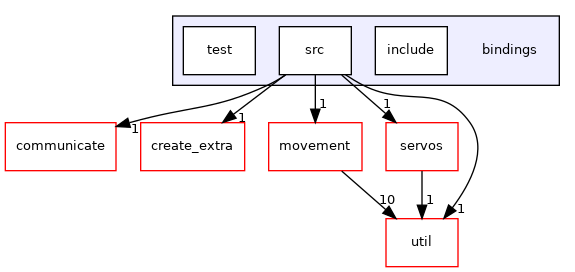
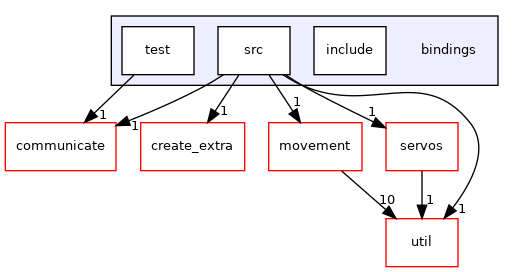
deploy: 4a1c8bddac152c7746b040a3994a704993f3c974

diff --git a/dir_000003_000004.html b/dir_000003_000004.html
@@ -5,7 +5,7 @@
 <meta http-equiv="X-UA-Compatible" content="IE=9"/>
 <meta name="generator" content="Doxygen 1.9.1"/>
 <meta name="viewport" content="width=device-width, initial-scale=1"/>
-<title>ihs_boost: bindings Directory Reference</title>
+<title>ihs_boost: bindings/test -&gt; communicate Relation</title>
 <link href="tabs.css" rel="stylesheet" type="text/css"/>
 <script type="text/javascript" src="jquery.js"></script>
 <script type="text/javascript" src="dynsections.js"></script>
@@ -62,43 +62,11 @@ $(function() {
 
 <div id="nav-path" class="navpath">
   <ul>
-<li class="navelem"><a class="el" href="dir_00240dc4a1a4845ae58be68fbad02d02.html">bindings</a></li>  </ul>
+<li class="navelem"><a class="el" href="dir_00240dc4a1a4845ae58be68fbad02d02.html">bindings</a></li><li class="navelem"><a class="el" href="dir_ebca184f7edf223dc8d1d7e313104c7e.html">test</a></li>  </ul>
 </div>
 </div><!-- top -->
-<div class="header">
-  <div class="headertitle">
-<div class="title">bindings Directory Reference</div>  </div>
-</div><!--header-->
 <div class="contents">
-<div class="dynheader">
-Directory dependency graph for bindings:</div>
-<div class="dyncontent">
-<div class="center"><img src="dir_00240dc4a1a4845ae58be68fbad02d02_dep.png" border="0" usemap="#adir__00240dc4a1a4845ae58be68fbad02d02__dep" alt="bindings"/></div>
-<map name="adir__00240dc4a1a4845ae58be68fbad02d02__dep" id="adir__00240dc4a1a4845ae58be68fbad02d02__dep">
-<area shape="rect" href="dir_757d9e6bdf70c1687ca892949b1b42fc.html" title="include" alt="" coords="314,27,386,75"/>
-<area shape="rect" href="dir_2efb20c05d61bafb84becaf810be1c07.html" title="src" alt="" coords="218,27,290,75"/>
-<area shape="rect" href="dir_055323c8a4f7ce695579edbe749d39a3.html" title="communicate" alt="" coords="5,123,116,171"/>
-<area shape="rect" href="dir_000002_000004.html" title="1" alt="" coords="131,120,141,134"/>
-<area shape="rect" href="dir_8e6226148e24e7b785c70e4b3eaceef7.html" title="create_extra" alt="" coords="141,123,245,171"/>
-<area shape="rect" href="dir_000002_000012.html" title="1" alt="" coords="220,105,229,119"/>
-<area shape="rect" href="dir_22d335ae50cd3a2e443747464697f17c.html" title="movement" alt="" coords="269,123,362,171"/>
-<area shape="rect" href="dir_000002_000015.html" title="1" alt="" coords="293,95,302,110"/>
-<area shape="rect" href="dir_8894e99936ee24343e529d171463c02a.html" title="servos" alt="" coords="386,123,458,171"/>
-<area shape="rect" href="dir_000002_000018.html" title="1" alt="" coords="368,105,378,120"/>
-<area shape="rect" href="dir_23ec12649285f9fabf3a6b7380226c28.html" title="util" alt="" coords="386,219,458,267"/>
-<area shape="rect" href="dir_000002_000024.html" title="1" alt="" coords="458,202,467,217"/>
-<area shape="rect" href="dir_ebca184f7edf223dc8d1d7e313104c7e.html" title="test" alt="" coords="122,27,194,75"/>
-<area shape="rect" href="dir_000003_000004.html" title="1" alt="" coords="99,109,108,123"/>
-<area shape="rect" href="dir_000015_000024.html" title="10" alt="" coords="379,193,397,208"/>
-<area shape="rect" href="dir_000018_000024.html" title="1" alt="" coords="426,193,435,208"/>
-<area shape="rect" href="dir_00240dc4a1a4845ae58be68fbad02d02.html" alt="" coords="111,16,498,85"/>
-</map>
-</div>
-<table class="memberdecls">
-<tr class="heading"><td colspan="2"><h2 class="groupheader"><a name="subdirs"></a>
-Directories</h2></td></tr>
-</table>
-</div><!-- contents -->
+<h3>test &rarr; communicate Relation</h3><table class="dirtab"><tr class="dirtab"><th class="dirtab">File in bindings/test</th><th class="dirtab">Includes file in communicate</th></tr><tr class="dirtab"><td class="dirtab"><b>back_and_forth_test.cpp</b></td><td class="dirtab"><a class="el" href="dir_06e824f5553d294831d66d9c27ed5ebb.html">include</a>&#160;/&#160;<a class="el" href="communicate_8hpp.html">communicate.hpp</a></td></tr></table></div><!-- contents -->
 <!-- start footer part -->
 <hr class="footer"/><address class="footer"><small>
 Generated by&#160;<a href="https://www.doxygen.org/index.html"><img class="footer" src="doxygen.svg" width="104" height="31" alt="doxygen"/></a> 1.9.1

diff --git a/dir_000007_000005.html b/dir_000007_000005.html
@@ -5,7 +5,7 @@
 <meta http-equiv="X-UA-Compatible" content="IE=9"/>
 <meta name="generator" content="Doxygen 1.9.1"/>
 <meta name="viewport" content="width=device-width, initial-scale=1"/>
-<title>ihs_boost: bindings Directory Reference</title>
+<title>ihs_boost: communicate/test -&gt; include Relation</title>
 <link href="tabs.css" rel="stylesheet" type="text/css"/>
 <script type="text/javascript" src="jquery.js"></script>
 <script type="text/javascript" src="dynsections.js"></script>
@@ -62,43 +62,11 @@ $(function() {
 
 <div id="nav-path" class="navpath">
   <ul>
-<li class="navelem"><a class="el" href="dir_00240dc4a1a4845ae58be68fbad02d02.html">bindings</a></li>  </ul>
+<li class="navelem"><a class="el" href="dir_055323c8a4f7ce695579edbe749d39a3.html">communicate</a></li><li class="navelem"><a class="el" href="dir_1999e99b335e4a0a5a8e4c4687d850a5.html">test</a></li>  </ul>
 </div>
 </div><!-- top -->
-<div class="header">
-  <div class="headertitle">
-<div class="title">bindings Directory Reference</div>  </div>
-</div><!--header-->
 <div class="contents">
-<div class="dynheader">
-Directory dependency graph for bindings:</div>
-<div class="dyncontent">
-<div class="center"><img src="dir_00240dc4a1a4845ae58be68fbad02d02_dep.png" border="0" usemap="#adir__00240dc4a1a4845ae58be68fbad02d02__dep" alt="bindings"/></div>
-<map name="adir__00240dc4a1a4845ae58be68fbad02d02__dep" id="adir__00240dc4a1a4845ae58be68fbad02d02__dep">
-<area shape="rect" href="dir_757d9e6bdf70c1687ca892949b1b42fc.html" title="include" alt="" coords="314,27,386,75"/>
-<area shape="rect" href="dir_2efb20c05d61bafb84becaf810be1c07.html" title="src" alt="" coords="218,27,290,75"/>
-<area shape="rect" href="dir_055323c8a4f7ce695579edbe749d39a3.html" title="communicate" alt="" coords="5,123,116,171"/>
-<area shape="rect" href="dir_000002_000004.html" title="1" alt="" coords="131,120,141,134"/>
-<area shape="rect" href="dir_8e6226148e24e7b785c70e4b3eaceef7.html" title="create_extra" alt="" coords="141,123,245,171"/>
-<area shape="rect" href="dir_000002_000012.html" title="1" alt="" coords="220,105,229,119"/>
-<area shape="rect" href="dir_22d335ae50cd3a2e443747464697f17c.html" title="movement" alt="" coords="269,123,362,171"/>
-<area shape="rect" href="dir_000002_000015.html" title="1" alt="" coords="293,95,302,110"/>
-<area shape="rect" href="dir_8894e99936ee24343e529d171463c02a.html" title="servos" alt="" coords="386,123,458,171"/>
-<area shape="rect" href="dir_000002_000018.html" title="1" alt="" coords="368,105,378,120"/>
-<area shape="rect" href="dir_23ec12649285f9fabf3a6b7380226c28.html" title="util" alt="" coords="386,219,458,267"/>
-<area shape="rect" href="dir_000002_000024.html" title="1" alt="" coords="458,202,467,217"/>
-<area shape="rect" href="dir_ebca184f7edf223dc8d1d7e313104c7e.html" title="test" alt="" coords="122,27,194,75"/>
-<area shape="rect" href="dir_000003_000004.html" title="1" alt="" coords="99,109,108,123"/>
-<area shape="rect" href="dir_000015_000024.html" title="10" alt="" coords="379,193,397,208"/>
-<area shape="rect" href="dir_000018_000024.html" title="1" alt="" coords="426,193,435,208"/>
-<area shape="rect" href="dir_00240dc4a1a4845ae58be68fbad02d02.html" alt="" coords="111,16,498,85"/>
-</map>
-</div>
-<table class="memberdecls">
-<tr class="heading"><td colspan="2"><h2 class="groupheader"><a name="subdirs"></a>
-Directories</h2></td></tr>
-</table>
-</div><!-- contents -->
+<h3>test &rarr; include Relation</h3><table class="dirtab"><tr class="dirtab"><th class="dirtab">File in communicate/test</th><th class="dirtab">Includes file in communicate/include</th></tr><tr class="dirtab"><td class="dirtab"><b>communicate_test.cpp</b></td><td class="dirtab"><a class="el" href="communicate_8hpp.html">communicate.hpp</a></td></tr></table></div><!-- contents -->
 <!-- start footer part -->
 <hr class="footer"/><address class="footer"><small>
 Generated by&#160;<a href="https://www.doxygen.org/index.html"><img class="footer" src="doxygen.svg" width="104" height="31" alt="doxygen"/></a> 1.9.1

diff --git a/dir_000011_000009.html b/dir_000011_000009.html
@@ -5,7 +5,7 @@
 <meta http-equiv="X-UA-Compatible" content="IE=9"/>
 <meta name="generator" content="Doxygen 1.9.1"/>
 <meta name="viewport" content="width=device-width, initial-scale=1"/>
-<title>ihs_boost: bindings Directory Reference</title>
+<title>ihs_boost: controllers/test -&gt; include Relation</title>
 <link href="tabs.css" rel="stylesheet" type="text/css"/>
 <script type="text/javascript" src="jquery.js"></script>
 <script type="text/javascript" src="dynsections.js"></script>
@@ -62,43 +62,11 @@ $(function() {
 
 <div id="nav-path" class="navpath">
   <ul>
-<li class="navelem"><a class="el" href="dir_00240dc4a1a4845ae58be68fbad02d02.html">bindings</a></li>  </ul>
+<li class="navelem"><a class="el" href="dir_87b6ed4386158a4d6cd0ecd5fb5bd5c2.html">controllers</a></li><li class="navelem"><a class="el" href="dir_32c4a7e683c70743e793c3167fda4548.html">test</a></li>  </ul>
 </div>
 </div><!-- top -->
-<div class="header">
-  <div class="headertitle">
-<div class="title">bindings Directory Reference</div>  </div>
-</div><!--header-->
 <div class="contents">
-<div class="dynheader">
-Directory dependency graph for bindings:</div>
-<div class="dyncontent">
-<div class="center"><img src="dir_00240dc4a1a4845ae58be68fbad02d02_dep.png" border="0" usemap="#adir__00240dc4a1a4845ae58be68fbad02d02__dep" alt="bindings"/></div>
-<map name="adir__00240dc4a1a4845ae58be68fbad02d02__dep" id="adir__00240dc4a1a4845ae58be68fbad02d02__dep">
-<area shape="rect" href="dir_757d9e6bdf70c1687ca892949b1b42fc.html" title="include" alt="" coords="314,27,386,75"/>
-<area shape="rect" href="dir_2efb20c05d61bafb84becaf810be1c07.html" title="src" alt="" coords="218,27,290,75"/>
-<area shape="rect" href="dir_055323c8a4f7ce695579edbe749d39a3.html" title="communicate" alt="" coords="5,123,116,171"/>
-<area shape="rect" href="dir_000002_000004.html" title="1" alt="" coords="131,120,141,134"/>
-<area shape="rect" href="dir_8e6226148e24e7b785c70e4b3eaceef7.html" title="create_extra" alt="" coords="141,123,245,171"/>
-<area shape="rect" href="dir_000002_000012.html" title="1" alt="" coords="220,105,229,119"/>
-<area shape="rect" href="dir_22d335ae50cd3a2e443747464697f17c.html" title="movement" alt="" coords="269,123,362,171"/>
-<area shape="rect" href="dir_000002_000015.html" title="1" alt="" coords="293,95,302,110"/>
-<area shape="rect" href="dir_8894e99936ee24343e529d171463c02a.html" title="servos" alt="" coords="386,123,458,171"/>
-<area shape="rect" href="dir_000002_000018.html" title="1" alt="" coords="368,105,378,120"/>
-<area shape="rect" href="dir_23ec12649285f9fabf3a6b7380226c28.html" title="util" alt="" coords="386,219,458,267"/>
-<area shape="rect" href="dir_000002_000024.html" title="1" alt="" coords="458,202,467,217"/>
-<area shape="rect" href="dir_ebca184f7edf223dc8d1d7e313104c7e.html" title="test" alt="" coords="122,27,194,75"/>
-<area shape="rect" href="dir_000003_000004.html" title="1" alt="" coords="99,109,108,123"/>
-<area shape="rect" href="dir_000015_000024.html" title="10" alt="" coords="379,193,397,208"/>
-<area shape="rect" href="dir_000018_000024.html" title="1" alt="" coords="426,193,435,208"/>
-<area shape="rect" href="dir_00240dc4a1a4845ae58be68fbad02d02.html" alt="" coords="111,16,498,85"/>
-</map>
-</div>
-<table class="memberdecls">
-<tr class="heading"><td colspan="2"><h2 class="groupheader"><a name="subdirs"></a>
-Directories</h2></td></tr>
-</table>
-</div><!-- contents -->
+<h3>test &rarr; include Relation</h3><table class="dirtab"><tr class="dirtab"><th class="dirtab">File in controllers/test</th><th class="dirtab">Includes file in controllers/include</th></tr><tr class="dirtab"><td class="dirtab"><b>accelerator_test.cpp</b></td><td class="dirtab"><a class="el" href="controllers_8hpp.html">controllers.hpp</a></td></tr></table></div><!-- contents -->
 <!-- start footer part -->
 <hr class="footer"/><address class="footer"><small>
 Generated by&#160;<a href="https://www.doxygen.org/index.html"><img class="footer" src="doxygen.svg" width="104" height="31" alt="doxygen"/></a> 1.9.1

diff --git a/dir_055323c8a4f7ce695579edbe749d39a3.html b/dir_055323c8a4f7ce695579edbe749d39a3.html
@@ -75,10 +75,11 @@ Directory dependency graph for communicate:</div>
 <div class="dyncontent">
 <div class="center"><img src="dir_055323c8a4f7ce695579edbe749d39a3_dep.png" border="0" usemap="#adir__055323c8a4f7ce695579edbe749d39a3__dep" alt="communicate"/></div>
 <map name="adir__055323c8a4f7ce695579edbe749d39a3__dep" id="adir__055323c8a4f7ce695579edbe749d39a3__dep">
-<area shape="rect" href="dir_06e824f5553d294831d66d9c27ed5ebb.html" title="include" alt="" coords="123,123,195,171"/>
+<area shape="rect" href="dir_06e824f5553d294831d66d9c27ed5ebb.html" title="include" alt="" coords="75,123,147,171"/>
 <area shape="rect" href="dir_bdd5d99e4d40a2c10666ad033c7d67f4.html" title="src" alt="" coords="123,27,195,75"/>
-<area shape="rect" href="dir_000006_000005.html" title="11" alt="" coords="158,97,176,112"/>
+<area shape="rect" href="dir_000006_000005.html" title="11" alt="" coords="130,103,147,118"/>
 <area shape="rect" href="dir_1999e99b335e4a0a5a8e4c4687d850a5.html" title="test" alt="" coords="27,27,99,75"/>
+<area shape="rect" href="dir_000007_000005.html" title="1" alt="" coords="93,95,103,110"/>
 <area shape="rect" href="dir_055323c8a4f7ce695579edbe749d39a3.html" alt="" coords="16,16,341,181"/>
 </map>
 </div>

diff --git a/dir_87b6ed4386158a4d6cd0ecd5fb5bd5c2.html b/dir_87b6ed4386158a4d6cd0ecd5fb5bd5c2.html
@@ -75,10 +75,11 @@ Directory dependency graph for controllers:</div>
 <div class="dyncontent">
 <div class="center"><img src="dir_87b6ed4386158a4d6cd0ecd5fb5bd5c2_dep.png" border="0" usemap="#adir__87b6ed4386158a4d6cd0ecd5fb5bd5c2__dep" alt="controllers"/></div>
 <map name="adir__87b6ed4386158a4d6cd0ecd5fb5bd5c2__dep" id="adir__87b6ed4386158a4d6cd0ecd5fb5bd5c2__dep">
-<area shape="rect" href="dir_f304db3957608baceb0089cfcf5a0856.html" title="include" alt="" coords="123,123,195,171"/>
+<area shape="rect" href="dir_f304db3957608baceb0089cfcf5a0856.html" title="include" alt="" coords="75,123,147,171"/>
 <area shape="rect" href="dir_4a1b805297ea0eafc7be5b1ce2e841f3.html" title="src" alt="" coords="123,27,195,75"/>
-<area shape="rect" href="dir_000010_000009.html" title="1" alt="" coords="162,97,172,112"/>
+<area shape="rect" href="dir_000010_000009.html" title="1" alt="" coords="134,103,143,118"/>
 <area shape="rect" href="dir_32c4a7e683c70743e793c3167fda4548.html" title="test" alt="" coords="27,27,99,75"/>
+<area shape="rect" href="dir_000011_000009.html" title="1" alt="" coords="93,95,103,110"/>
 <area shape="rect" href="dir_87b6ed4386158a4d6cd0ecd5fb5bd5c2.html" alt="" coords="16,16,320,181"/>
 </map>
 </div>

diff --git a/dir_1999e99b335e4a0a5a8e4c4687d850a5.html b/dir_1999e99b335e4a0a5a8e4c4687d850a5.html
@@ -70,6 +70,17 @@ $(function() {
 <div class="title">test Directory Reference</div>  </div>
 </div><!--header-->
 <div class="contents">
+<div class="dynheader">
+Directory dependency graph for test:</div>
+<div class="dyncontent">
+<div class="center"><img src="dir_1999e99b335e4a0a5a8e4c4687d850a5_dep.png" border="0" usemap="#adir__1999e99b335e4a0a5a8e4c4687d850a5__dep" alt="communicate/test"/></div>
+<map name="adir__1999e99b335e4a0a5a8e4c4687d850a5__dep" id="adir__1999e99b335e4a0a5a8e4c4687d850a5__dep">
+<area shape="rect" href="dir_06e824f5553d294831d66d9c27ed5ebb.html" title="include" alt="" coords="35,148,107,196"/>
+<area shape="rect" href="dir_1999e99b335e4a0a5a8e4c4687d850a5.html" title="test" alt="" coords="35,52,107,100"/>
+<area shape="rect" href="dir_000007_000005.html" title="1" alt="" coords="74,122,84,137"/>
+<area shape="rect" href="dir_055323c8a4f7ce695579edbe749d39a3.html" title="communicate" alt="" coords="16,16,127,207"/>
+</map>
+</div>
 </div><!-- contents -->
 <!-- start footer part -->
 <hr class="footer"/><address class="footer"><small>

diff --git a/dir_32c4a7e683c70743e793c3167fda4548.html b/dir_32c4a7e683c70743e793c3167fda4548.html
@@ -70,6 +70,17 @@ $(function() {
 <div class="title">test Directory Reference</div>  </div>
 </div><!--header-->
 <div class="contents">
+<div class="dynheader">
+Directory dependency graph for test:</div>
+<div class="dyncontent">
+<div class="center"><img src="dir_32c4a7e683c70743e793c3167fda4548_dep.png" border="0" usemap="#adir__32c4a7e683c70743e793c3167fda4548__dep" alt="controllers/test"/></div>
+<map name="adir__32c4a7e683c70743e793c3167fda4548__dep" id="adir__32c4a7e683c70743e793c3167fda4548__dep">
+<area shape="rect" href="dir_f304db3957608baceb0089cfcf5a0856.html" title="include" alt="" coords="27,148,99,196"/>
+<area shape="rect" href="dir_32c4a7e683c70743e793c3167fda4548.html" title="test" alt="" coords="27,52,99,100"/>
+<area shape="rect" href="dir_000011_000009.html" title="1" alt="" coords="66,122,76,137"/>
+<area shape="rect" href="dir_87b6ed4386158a4d6cd0ecd5fb5bd5c2.html" title="controllers" alt="" coords="16,16,109,207"/>
+</map>
+</div>
 </div><!-- contents -->
 <!-- start footer part -->
 <hr class="footer"/><address class="footer"><small>

diff --git a/dir_ebca184f7edf223dc8d1d7e313104c7e.html b/dir_ebca184f7edf223dc8d1d7e313104c7e.html
@@ -70,6 +70,17 @@ $(function() {
 <div class="title">test Directory Reference</div>  </div>
 </div><!--header-->
 <div class="contents">
+<div class="dynheader">
+Directory dependency graph for test:</div>
+<div class="dyncontent">
+<div class="center"><img src="dir_ebca184f7edf223dc8d1d7e313104c7e_dep.png" border="0" usemap="#adir__ebca184f7edf223dc8d1d7e313104c7e__dep" alt="bindings/test"/></div>
+<map name="adir__ebca184f7edf223dc8d1d7e313104c7e__dep" id="adir__ebca184f7edf223dc8d1d7e313104c7e__dep">
+<area shape="rect" href="dir_ebca184f7edf223dc8d1d7e313104c7e.html" title="test" alt="" coords="27,52,99,100"/>
+<area shape="rect" href="dir_055323c8a4f7ce695579edbe749d39a3.html" title="communicate" alt="" coords="7,148,118,196"/>
+<area shape="rect" href="dir_000003_000004.html" title="1" alt="" coords="66,122,76,137"/>
+<area shape="rect" href="dir_00240dc4a1a4845ae58be68fbad02d02.html" title="bindings" alt="" coords="16,16,109,111"/>
+</map>
+</div>
 </div><!-- contents -->
 <!-- start footer part -->
 <hr class="footer"/><address class="footer"><small>
